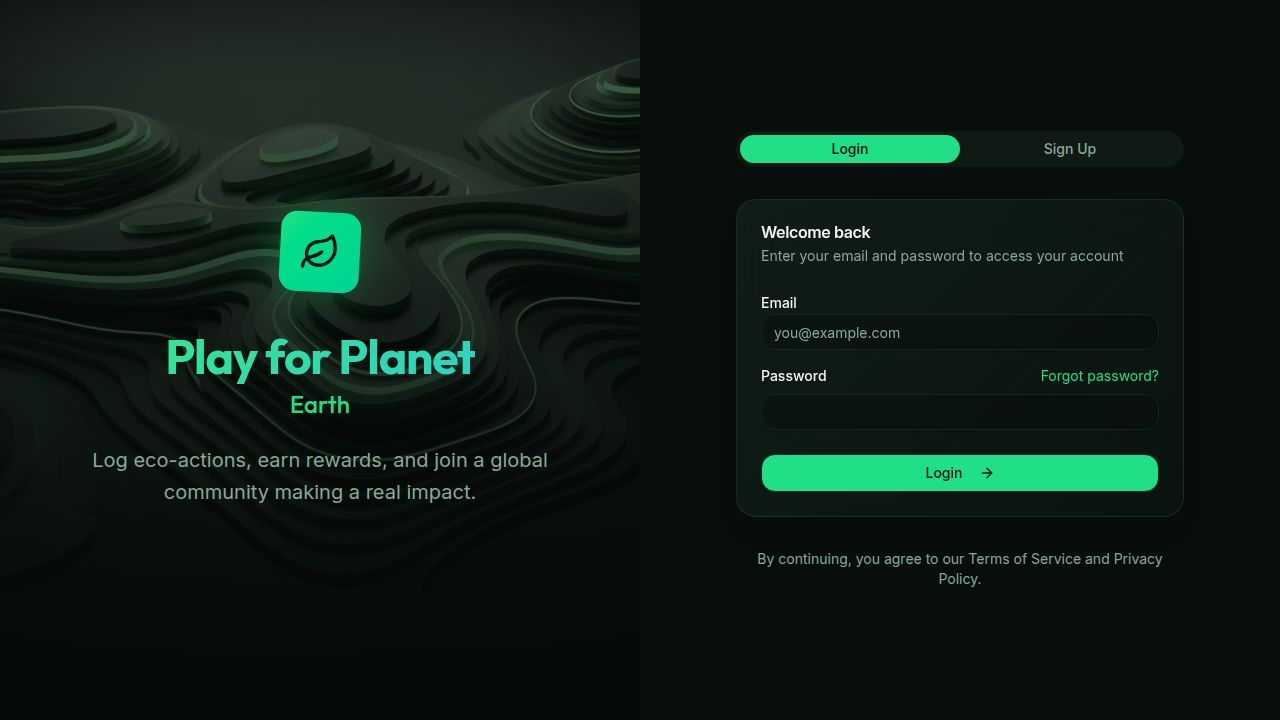
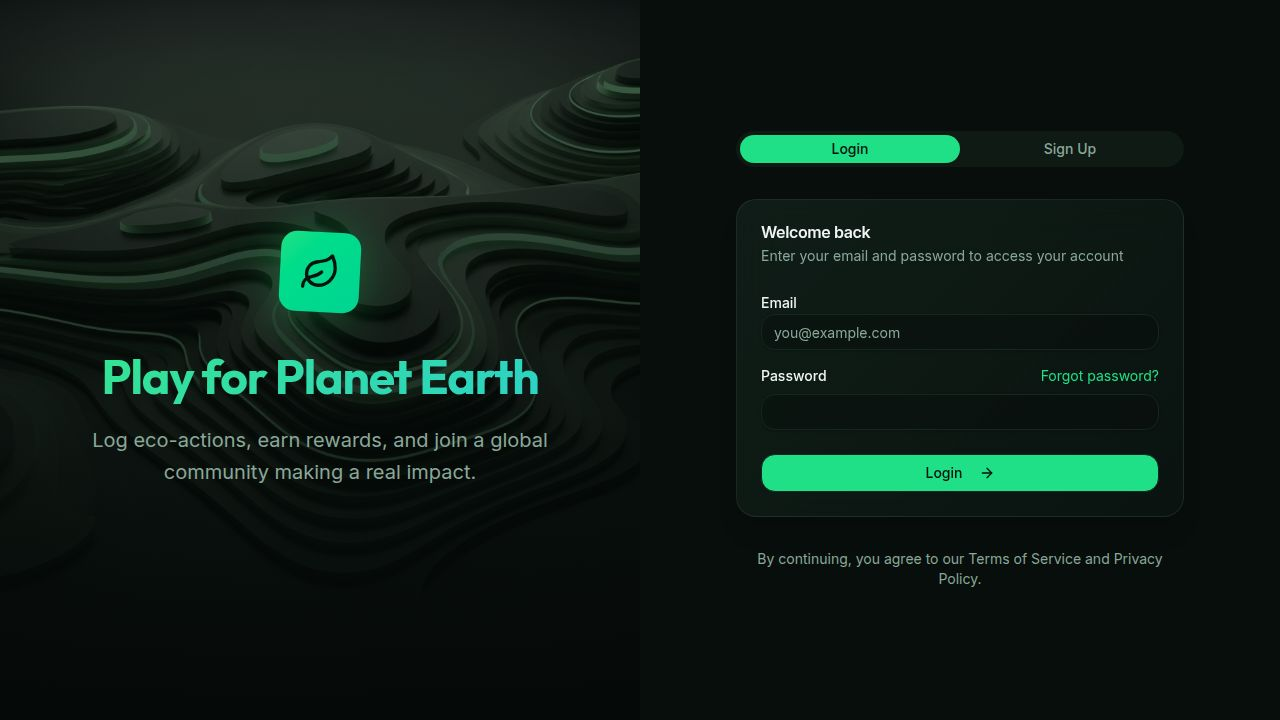
Update app branding and unify title text across pages
Unify "Play for Planet" and "Earth" into a single title with consistent styling in `auth.tsx` and `onboarding.tsx`.

Replit-Commit-Author: Agent
Replit-Commit-Session-Id: 7fcc2584-ebc0-4e36-8c32-9aa0d542d773
Replit-Commit-Checkpoint-Type: full_checkpoint
Replit-Commit-Event-Id: 68b9c01b-c686-491e-b9c8-8901aff3b08b
Replit-Commit-Screenshot-Url: https://storage.googleapis.com/screenshot-production-us-central1/5f9078c6-9987-450c-ae4c-5dddd60d2b9f/7fcc2584-ebc0-4e36-8c32-9aa0d542d773/BZJWSDZ
Replit-Helium-Checkpoint-Created: true

Changed region(s): [[0.0625, 0.275, 0.4375, 0.7028]]

diff --git a/client/src/pages/auth.tsx b/client/src/pages/auth.tsx
@@ -478,10 +478,9 @@ export default function AuthPage() {
           <div className="w-20 h-20 bg-gradient-to-br from-primary to-emerald-400 rounded-2xl flex items-center justify-center mx-auto mb-10 shadow-[0_0_50px_rgba(34,197,94,0.4)] rotate-3 hover:rotate-0 transition-transform duration-500">
             <Leaf className="w-10 h-10 text-primary-foreground" />
           </div>
-          <h1 className="text-5xl font-bold font-display mb-2 tracking-tight">
-            <span className="gradient-text">Play for Planet</span>
+          <h1 className="text-5xl font-bold font-display mb-6 tracking-tight">
+            <span className="gradient-text">Play for Planet Earth</span>
           </h1>
-          <p className="text-2xl font-display text-primary font-medium mb-6">Earth</p>
           <p className="text-xl text-muted-foreground leading-relaxed">
             Log eco-actions, earn rewards, and join a global community making a real impact.
           </p>
@@ -494,8 +493,7 @@ export default function AuthPage() {
             <div className="w-14 h-14 bg-gradient-to-br from-primary to-emerald-400 rounded-2xl flex items-center justify-center mx-auto mb-4 shadow-lg rotate-3">
               <Leaf className="w-7 h-7 text-primary-foreground" />
             </div>
-            <h1 className="text-2xl font-bold font-display gradient-text">Play for Planet</h1>
-            <p className="text-sm font-medium text-primary uppercase tracking-widest">Earth</p>
+            <h1 className="text-2xl font-bold font-display gradient-text">Play for Planet Earth</h1>
           </div>
 
           <Tabs defaultValue="login" className="w-full">

diff --git a/client/src/pages/onboarding.tsx b/client/src/pages/onboarding.tsx
@@ -220,9 +220,8 @@ export default function OnboardingPage() {
                 <Leaf className="w-12 h-12 text-primary-foreground" />
               </div>
               <CardTitle className="text-4xl font-display">
-                <span className="gradient-text">Play for Planet</span>
+                <span className="gradient-text">Play for Planet Earth</span>
               </CardTitle>
-              <p className="text-lg font-display text-primary font-medium mt-1">Earth</p>
               <CardDescription className="text-base mt-4 leading-relaxed">
                 Turn everyday eco-actions into verified impact. Connect your fitness apps, 
                 join challenges, and help make a difference.
